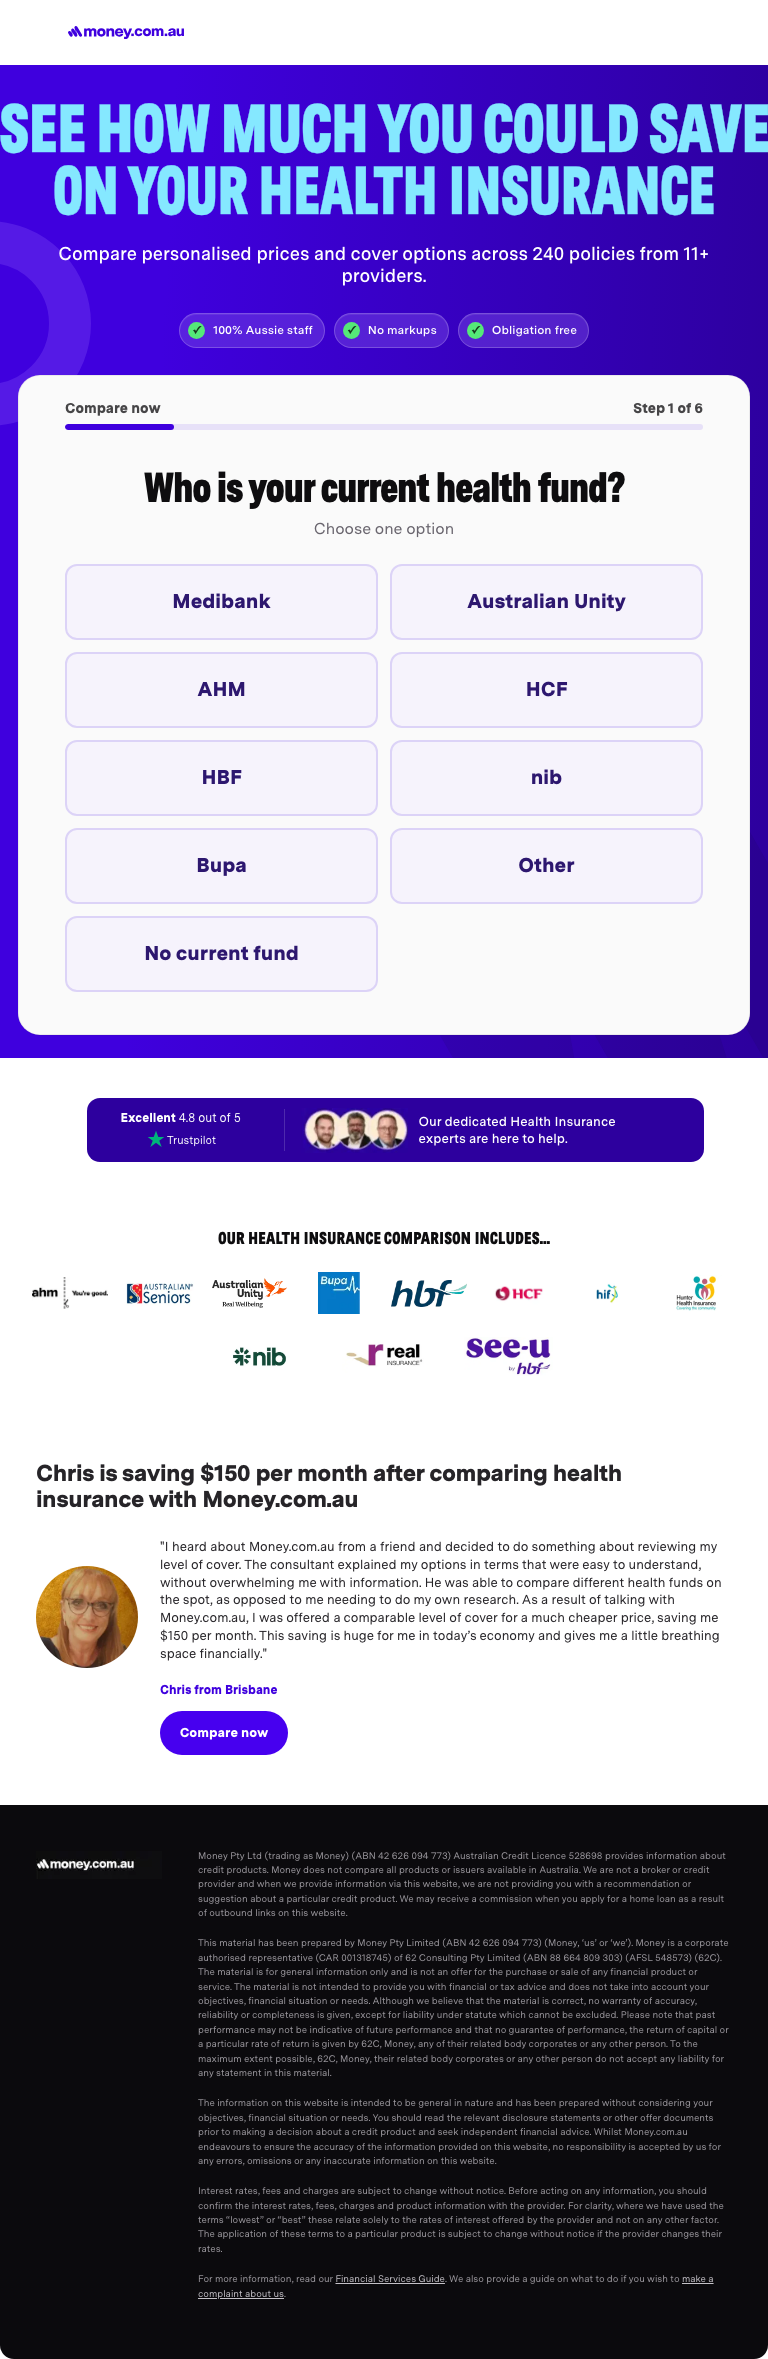
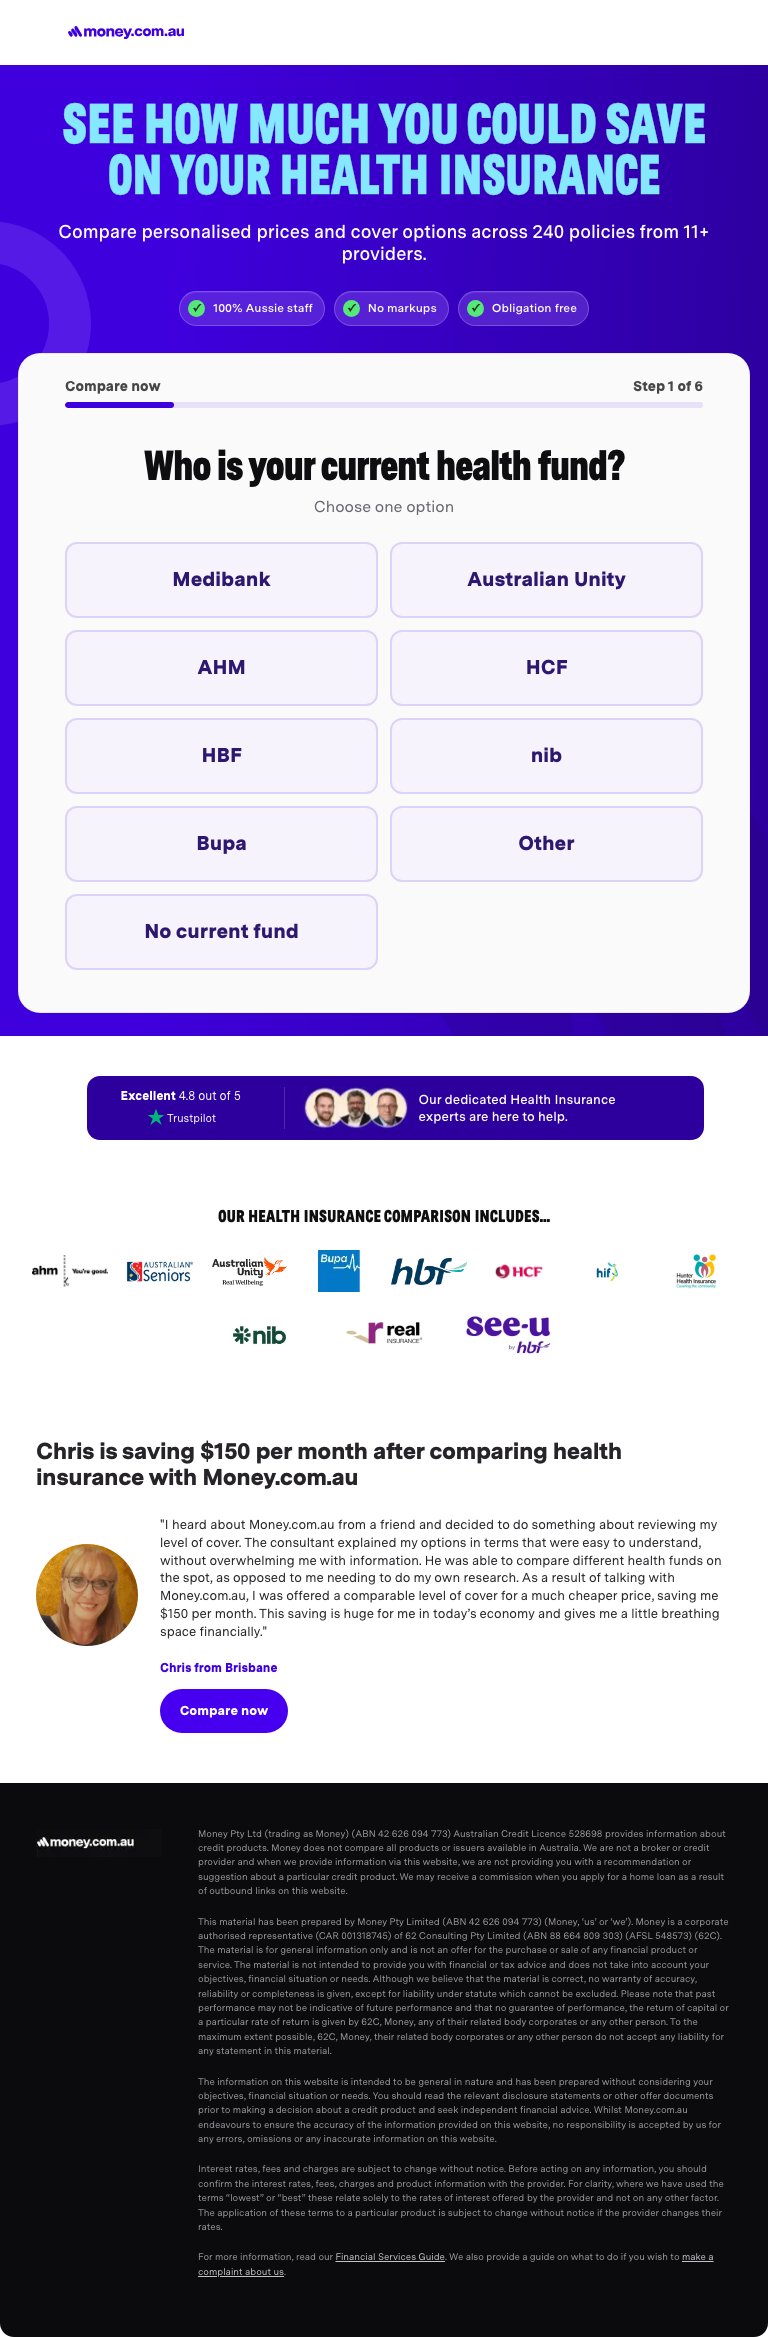
Keep tablet hero title within viewport

diff --git a/src/components/health-insurance/health-insurance.module.css b/src/components/health-insurance/health-insurance.module.css
@@ -517,6 +517,13 @@
   }
 }
 
+@media (min-width: 768px) and (max-width: 900px) {
+  .heroTitle {
+    font-size: 56px;
+    letter-spacing: -1.2px;
+  }
+}
+
 @media (max-width: 767px) {
   .headerInner {
     padding: 0 20px;
